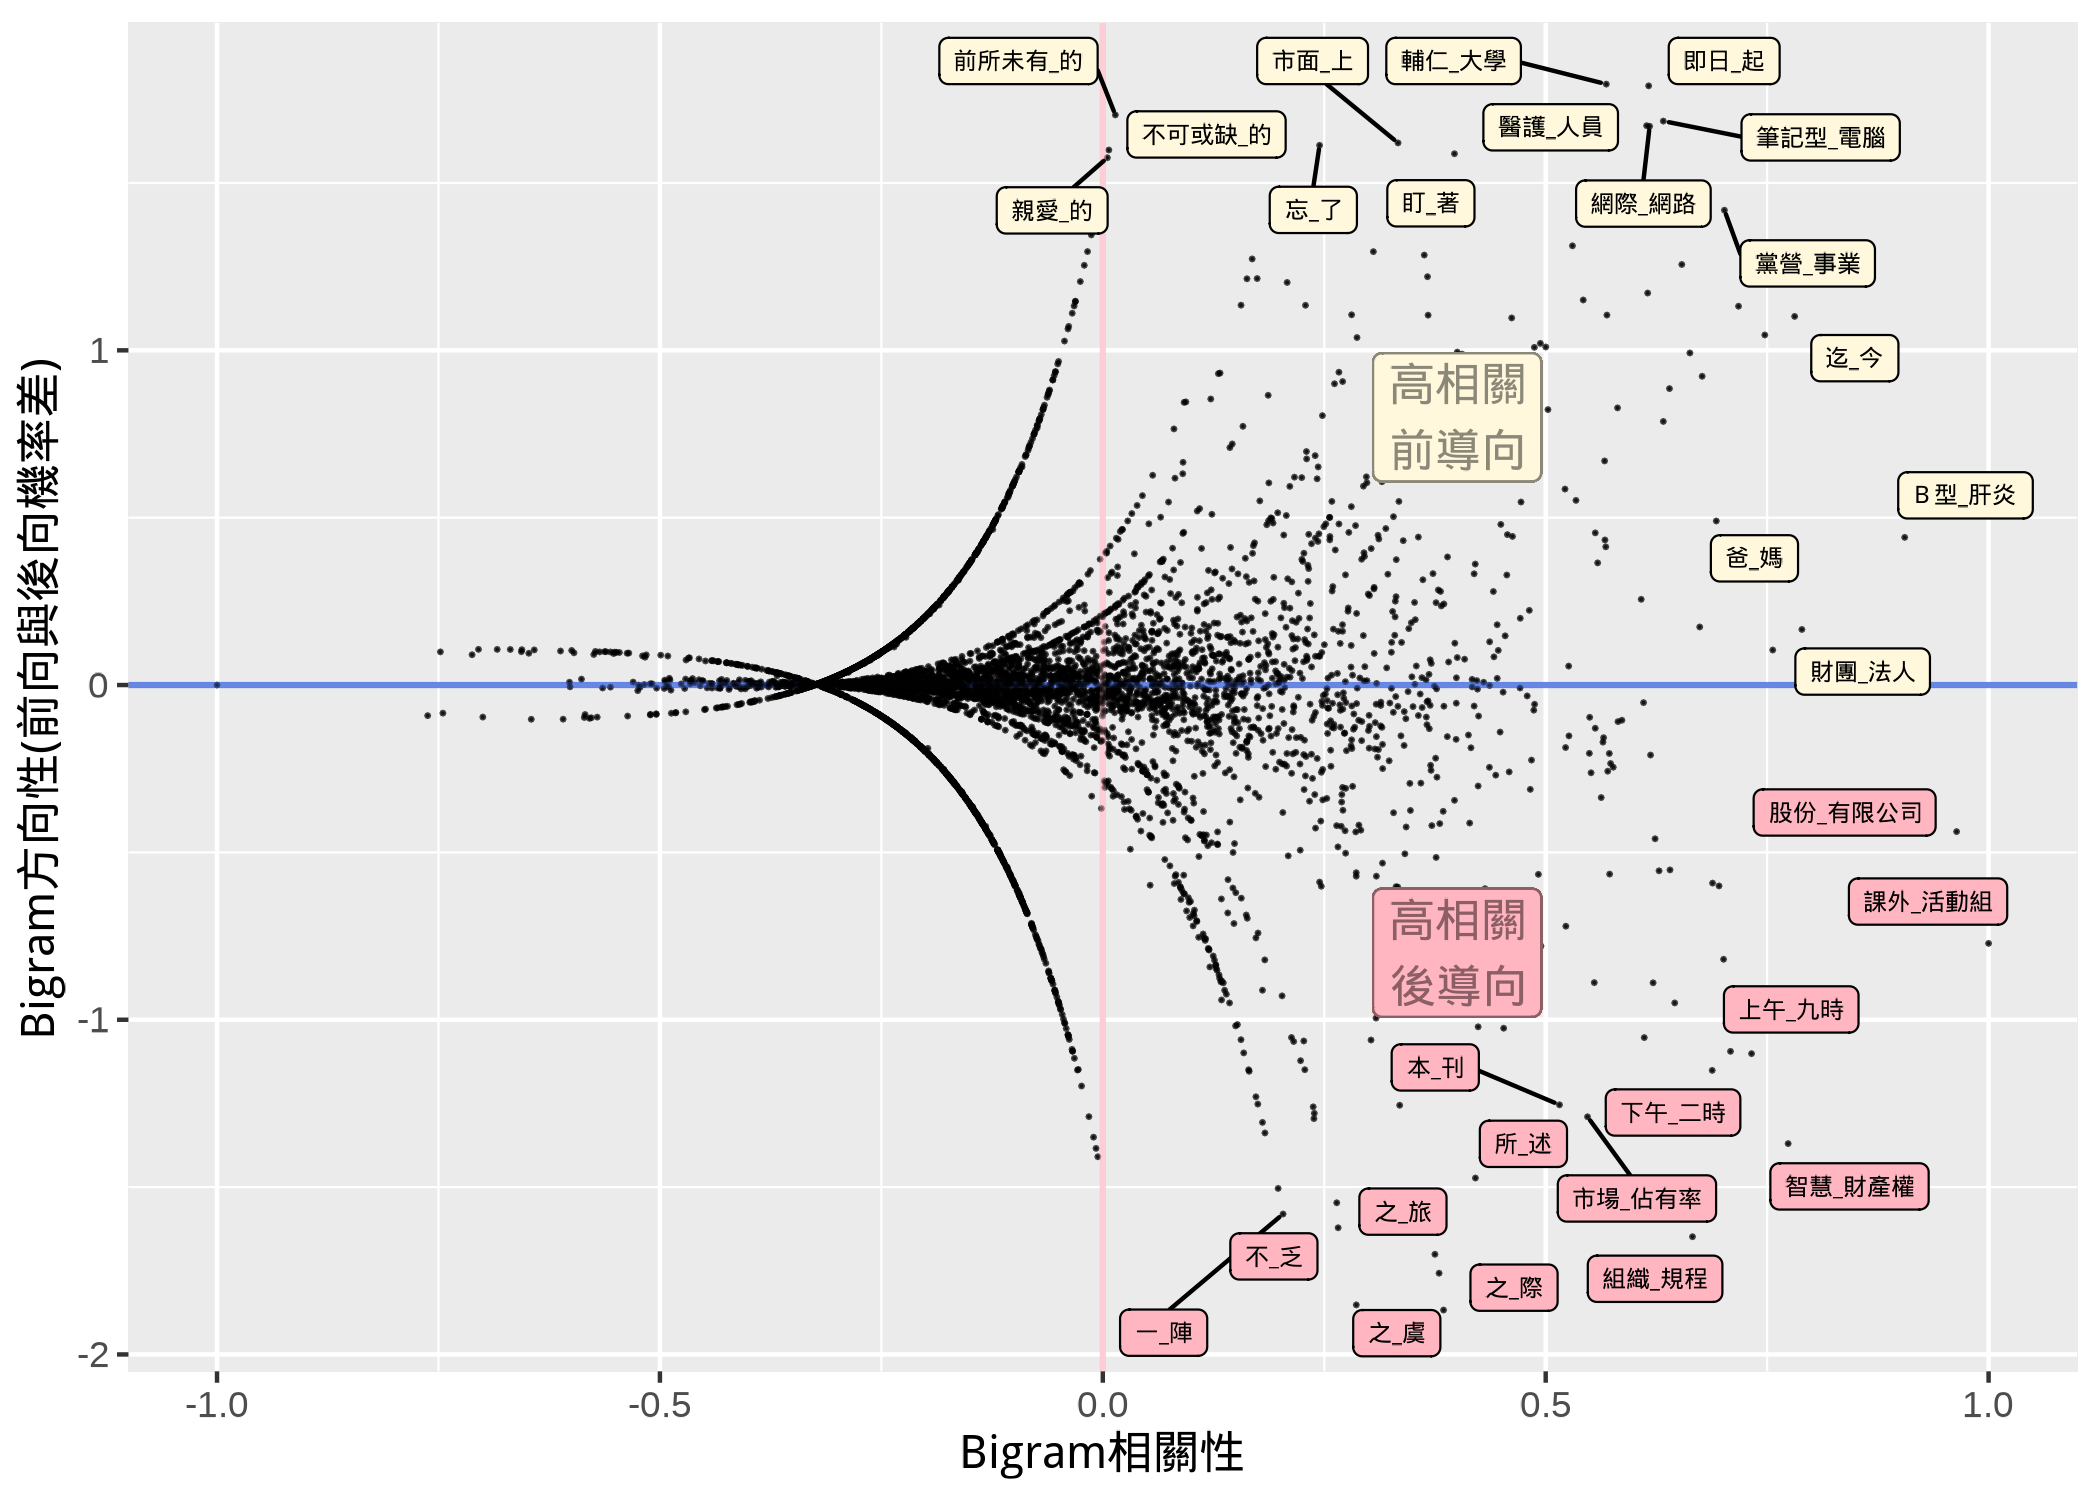
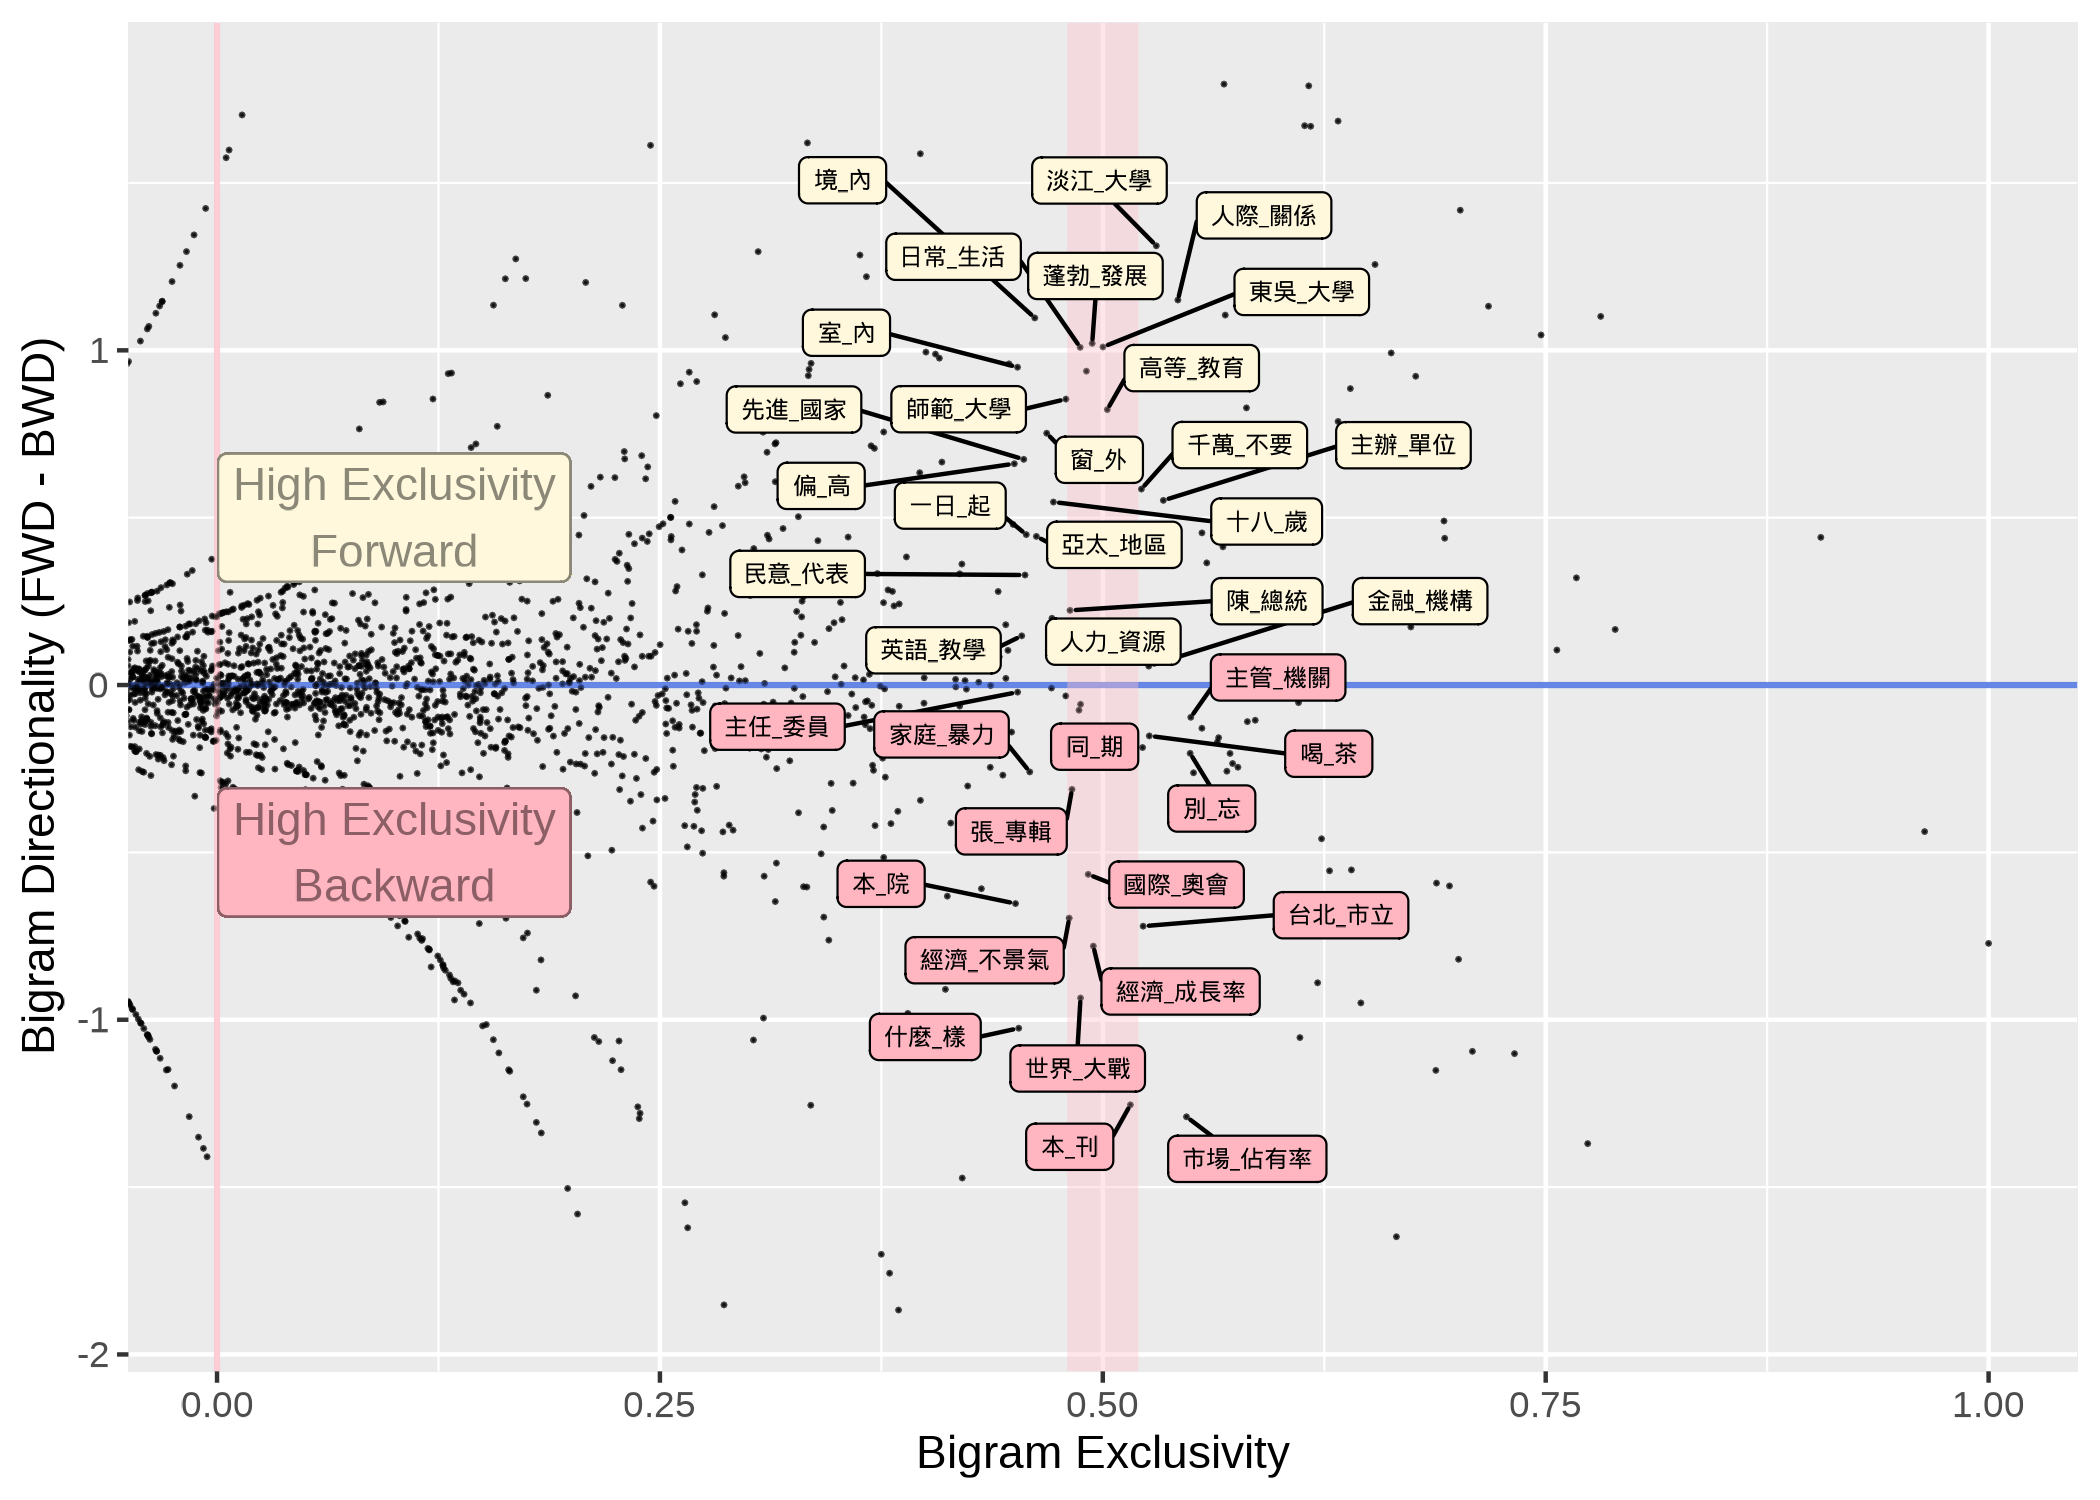
UQ-Talk

diff --git a/2023-UQueensland-CorpusDistributionalProperties/index.html b/2023-UQueensland-CorpusDistributionalProperties/index.html
@@ -465,7 +465,7 @@ Distributional Data for Linguistic Generalization:</span></h1>
   <h1 class="subtitle"><span style="font-size:1em;">Frequency and
 more?</span></h1>
     <h2 class="author"><div class="line-block"><br />
-<small> Alvin Cheng-Hsien Chen </small><br />
+<small> Alvin Cheng-Hsien Chen 陳正賢 </small><br />
 <small>National Taiwan Normal University</small></div></h2>
     <h3 class="date"><small>Feb. 17, 2023</small></h3>
 </section>
@@ -580,9 +580,14 @@ interpreting the evidence. Language Learning, 67, 155–179.</li>
 <section id="a-quick-example" class="title-slide slide level2">
 <h2>A Quick Example</h2>
 <ul>
-<li>Data Source: Corpus of Contemporary American English (COCA)</li>
+<li>Data Source:
+<ul>
+<li>English: Corpus of Contemporary American English (COCA)</li>
+<li>Chinese: Academia Sinica Balanced Corpus of Mandarin Chinese (Sinica
+Corpus)</li>
+</ul></li>
 <li>Target: Two-word combinations (Contiguous Bigrams)</li>
-<li>Research Question: Representative Collocations in English</li>
+<li>Research Question: Representative Collocations</li>
 </ul>
 </section>
 
@@ -590,9 +595,13 @@ interpreting the evidence. Language Learning, 67, 155–179.</li>
 <section id="a-naive-start" class="title-slide slide level2">
 <h2>A Naive Start</h2>
 <ul>
-<li>Create a frequency list of two-word combinations based on the
-COCA.</li>
+<li>Create a frequency list of two-word combinations based on the native
+corpus</li>
 </ul>
+</section>
+<section class="slide level3">
+
+<p><img src="images/en-g0.png" title="Bigram頻率排序表" alt="Bigram頻率排序表" width="1050" height="90%" /></p>
 </section>
 <section class="slide level3">
 
@@ -617,6 +626,10 @@ be used, e.g., MI and LLR.</li>
 <section class="slide level3">
 
 <p>Now what if we add <strong>exclusivity</strong> to the analysis:</p>
+<p><img src="images/en-g1.png" width="1050" /></p>
+</section>
+<section class="slide level3">
+
 <p><img src="images/g1.png" width="1050" /></p>
 <!-- ## Exclusivity vs. Dispersion -->
 </section></section>
@@ -627,6 +640,7 @@ be used, e.g., MI and LLR.</li>
 <li>A linguistic structure can be evenly distributed across the
 documents of the corpus or specific to only a few
 documents/authors/registers etc.</li>
+<li>Domain-general vs. Domain-specific?</li>
 <li>Many quantitative metrics can be used, e.g., range, inverse document
 frequency, delta P.</li>
 </ul>
@@ -634,6 +648,10 @@ frequency, delta P.</li>
 <section class="slide level3">
 
 <p>Now if we add <strong>dispersion</strong> to our analysis:</p>
+<p><img src="images/en-g2.png" width="1050" /></p>
+</section>
+<section class="slide level3">
+
 <p><img src="images/g2.png" width="1050" /></p>
 </section></section>
 <section>
@@ -650,42 +668,46 @@ probability.</li>
 <section class="slide level3">
 
 <p>If we add <strong>directionality</strong> to our analysus:</p>
+<p><img src="images/en-g3.png" width="1050" /></p>
+</section>
+<section class="slide level3">
+
 <p><img src="images/g3.png" width="1050" /></p>
 <!-- ## Exclusivity, Directionality, Dispersion -->
 </section></section>
+<section>
 <section id="an-integrated-analysis" class="title-slide slide level2">
 <h2>An Integrated Analysis</h2>
-<p>We can include all three aspects into the analysis: exclusivity,
-dispersion, and directionality.</p>
-<p><img src="images/g4.png" width="1350" /></p>
+<p><img src="images/en-g4.png" width="1350" /></p>
 </section>
+<section class="slide level3">
 
+<p><img src="images/g4.png" width="1350" /></p>
+</section></section>
 <section id="frequency-and-more" class="title-slide slide level2">
 <h2>Frequency and more？</h2>
 <ul>
-<li>If our research question is: what are the frequently occurring
-two-word combinations in English, we should make use of corpus-based
-distributional properties at different dimensions.</li>
-<li>A <strong>representative</strong> combination should probably
+<li>To identify <strong>representative</strong> two-word combinations,
+one may need to consider distributional properties at multiple
+dimensions.</li>
+<li>A <strong>representative</strong> combination may need to
 demonstrate considerably high <strong>frequency</strong> and
-<strong>exclusivity</strong>, with wide
-<strong>dispersion</strong>.</li>
+<strong>exclusivity</strong> with wide <strong>dispersion</strong>.</li>
 <li>The <strong>directionality</strong> of combination’s lexical
 association may lead to more diverse representative sets of combinations
 as well.</li>
 </ul>
 </section>
 
-<section>
-<section id="multifaceted-distributional-properties-and-acquisition"
+<section id="l2-acquisition-of-multifaceted-native-intuition"
 class="title-slide slide level2">
-<h2>Multifaceted Distributional Properties and Acquisition</h2>
+<h2>L2 Acquisition of Multifaceted Native Intuition</h2>
 <ul>
 <li>We have observed a similar development in L2 data as well<span
 class="note"></span><span class="note"></span>.</li>
-<li>L2 learners are able to gradually pick up these <strong>multifaceted
-statistical distributional properties</strong> in their L2 production
-(written essays).</li>
+<li>L2 learners demonstrate increasing sensitivity to the
+<strong>multifaceted statistical distributional properties</strong> in
+their L2 production (written essays).</li>
 </ul>
 <div class="footnotes">
 <ol type="1">
@@ -698,13 +720,51 @@ usage. <em>Taiwan Journal of TESOL</em>,18(1),29–61.</li>
 </ol>
 </div>
 </section>
+
+<section id="l1-vs.-l2-comparative-study"
+class="title-slide slide level2">
+<h2>L1 vs. L2 Comparative Study</h2>
+<div class="container">
+<div class="col">
+<ul>
+<li>English Data
+<ul>
+<li>Learner: International Corpus Network of Asian Learners of English
+(ICNALE)</li>
+<li>Native: Corpus of Contemporary American English</li>
+</ul></li>
+</ul>
+</div>
+<div class="col">
+<ul>
+<li>Chinese Data
+<ul>
+<li>Learner: The Test of Chinese as a Foreign Language (TOCFL)</li>
+<li>Native: Academia Sinica Balanced Corpus of Mandarin Chinese (Sinica
+Corpus)</li>
+</ul></li>
+</ul>
+</div>
+</div>
+</section>
+
+<section>
+<section id="structure-of-analysis" class="title-slide slide level2">
+<h2>Structure of Analysis</h2>
+<ul>
+<li>All two-word combinations in L2 argumentative essays across
+different proficiency levels (CEFR)</li>
+<li>L1 Corpus as the proxy for native intuition (Exclusivity,
+Dispersion, Directionality)</li>
+<li>Evaluate the sophistication of L2 two-word combinations at different
+proficiency levels</li>
+</ul>
+</section>
 <section class="slide level3">
 
 <ul>
-<li><p>Sophistication of learners’ two-word combinations in L2 (English
-+ Chinese) essays.</p></li>
-<li><p>As L2 proficiency level grows, the <strong>exclusivity</strong>
-of their two-word combinations grows as well.</p></li>
+<li>As L2 proficiency level grows, the <strong>exclusivity</strong> of
+their two-word combinations grows as well.</li>
 </ul>
 <p><img src="images/eurocall-exclusivity.png" width="1163" /></p>
 </section>
@@ -731,11 +791,10 @@ combinations.</li>
 <section id="future-challenges" class="title-slide slide level2">
 <h2>Future Challenges</h2>
 <ul>
-<li>We need to pay attention to the multifaceted nature of the
-corpus-based distributional properties as well as the meanings of the
-quantitative distributional metrics in different aspects.</li>
-<li>In particular, common corpus-based analyses (e.g., near-synonyms,
-lexical semantics, keyness analysis) may need to consider
+<li>We cannnot ignore the multifaceted nature of the corpus-based
+distributional properties.</li>
+<li>In particular, common corpus-based analyses (e.g., collocations,
+collexemes, keywords, lexical bundles/chunks) may need to consider
 <strong>dispersion</strong> and <strong>directionality</strong> in more
 comprehensive ways.</li>
 <li>The choice of a proper metric is always a non-trivial issue in

diff --git a/2023-UQueensland-CorpusDistributionalProperties/static/revealstyle.css b/2023-UQueensland-CorpusDistributionalProperties/static/revealstyle.css
@@ -130,3 +130,14 @@ div.footnotes {
  }
 
 /* Vim: set ft=css sw=2 sts=2 et: */
+
+
+/* Two-column layout*/
+
+.container{
+  display: flex;
+}
+.col {
+  flex: 1;
+}
+
